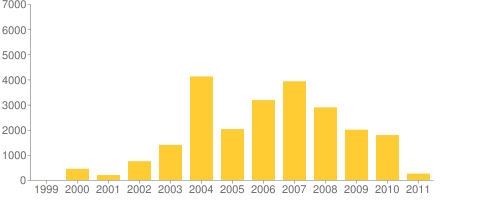
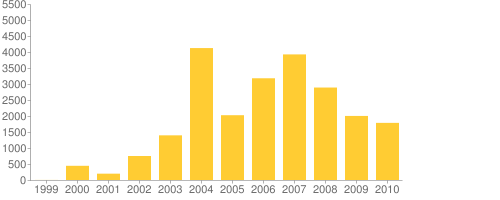
Normalize sample for commitsbyyear

diff --git a/commits_by_year.py b/commits_by_year.py
@@ -10,7 +10,7 @@ data_array = []
 legend_array = []
 
 chart = GroupedVerticalBarChart(500, 200,
-                                y_range=(0, 7000))
+                                y_range=(0, 5500))
 
 #chart.set_bar_width(25)
 #chart.set_bar_width(25)
@@ -25,7 +25,7 @@ print legend_array
 
 chart.add_data(data_array)
 chart.set_axis_labels('x', legend_array)
-chart.set_axis_labels('y', ['0', '1000','2000','3000','4000','5000', '6000', '7000'])
+chart.set_axis_labels('y', range(0,6000,500))
 
 print chart.get_url()
 
